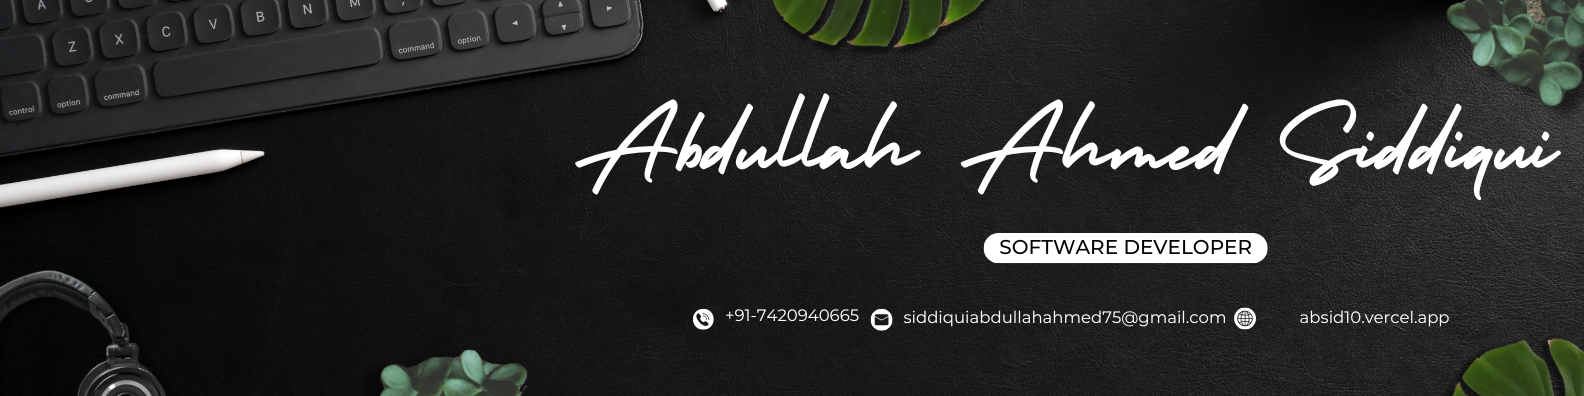
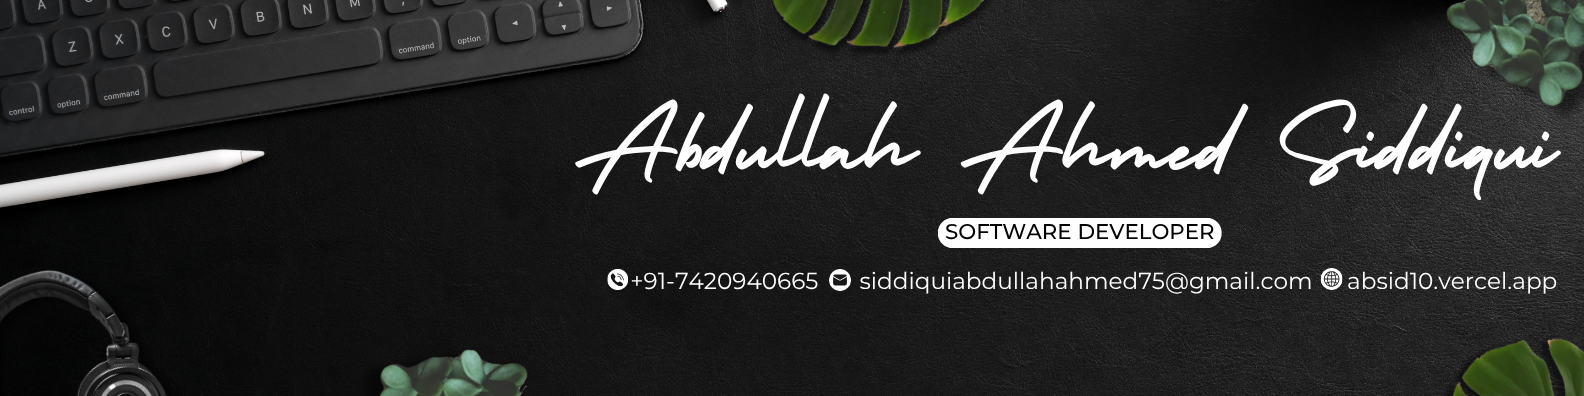
Update OG image and add og:site_name meta tag

Changed region(s): [[0.3712, 0.5455, 0.9899, 0.7576], [0.4331, 0.7576, 0.928, 0.8485]]

diff --git a/projects.html b/projects.html
@@ -5,17 +5,18 @@
     <meta name="viewport" content="width=device-width, initial-scale=1.0" />
     <meta name="description" content="All projects by Abdullah Ahmed Siddiqui — Software Developer. Ranked portfolio of GitHub repositories." />
     <!-- Open Graph / LinkedIn / Facebook -->
+    <meta property="og:site_name" content="Abdullah Ahmed Siddiqui" />
     <meta property="og:type" content="website" />
     <meta property="og:url" content="https://absid10.vercel.app/projects.html" />
     <meta property="og:title" content="All Projects — Abdullah Ahmed Siddiqui" />
     <meta property="og:description" content="Ranked portfolio of GitHub repositories built by Abdullah Ahmed Siddiqui." />
-    <meta property="og:image" content="https://absid10.vercel.app/assets/images/Abdullah_linkedin_banner.png" />
+    <meta property="og:image" content="https://absid10.vercel.app/assets/images/OG_image.png" />
     <!-- Twitter -->
     <meta property="twitter:card" content="summary_large_image" />
     <meta property="twitter:url" content="https://absid10.vercel.app/projects.html" />
     <meta property="twitter:title" content="All Projects — Abdullah Ahmed Siddiqui" />
     <meta property="twitter:description" content="Ranked portfolio of GitHub repositories built by Abdullah Ahmed Siddiqui." />
-    <meta property="twitter:image" content="https://absid10.vercel.app/assets/images/Abdullah_linkedin_banner.png" />
+    <meta property="twitter:image" content="https://absid10.vercel.app/assets/images/OG_image.png" />
     <title>All Projects — Abdullah Ahmed Siddiqui</title>
     <!-- Favicon -->
     <link rel="icon" href="assets/images/ayebeestech-dark.jpg" type="image/jpeg" />

diff --git a/index.html b/index.html
@@ -10,7 +10,7 @@
     />
     <meta name="robots" content="INDEX,FOLLOW" />
     <meta name="viewport" content="width=device-width, initial-scale=1.0" />
-    <!-- Open Graph / LinkedIn / Facebook / WhatsApp -->
+    <meta property="og:site_name" content="Abdullah Ahmed Siddiqui" />
     <meta property="og:type" content="website" />
     <meta property="og:url" content="https://absid10.vercel.app/" />
     <meta property="og:title" content="Abdullah Ahmed Siddiqui - Portfolio ✨" />
